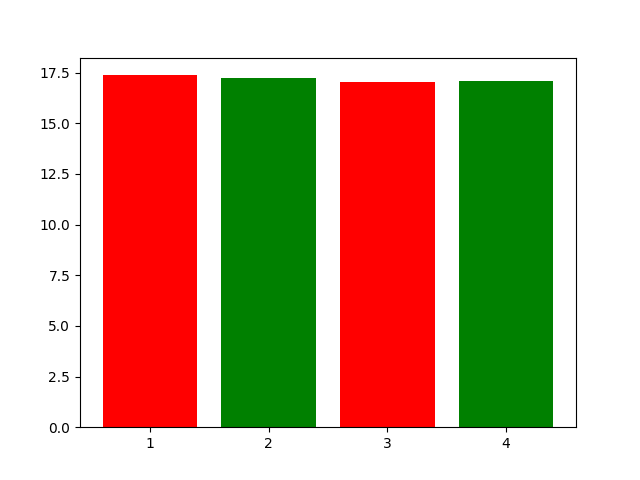
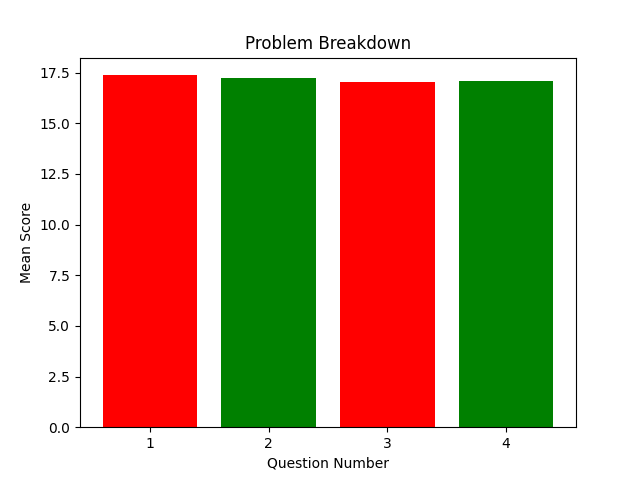
Add graph titles

Changed region(s): [[0.375, 0.0625, 0.6562, 0.125], [0.4062, 0.9375, 0.5938, 1.0], [0.0312, 0.4062, 0.0625, 0.5938]]

diff --git a/frontend/src/components/ButtonGraph.js b/frontend/src/components/ButtonGraph.js
@@ -2,13 +2,13 @@ import React, { useState } from "react";
 
 const ButtonGraph = ({title, getGraph}) => {
     const [input, setInput] = useState("")
-    const [graphFigure, setGraphFigure] = useState()
+    const [graphFile, setGraphFile] = useState()
     const GraphInputChangeHandler = async (event) => {
         setInput(event.target.value);
     };
     const SubmitGraphHandler = async (event) => {
         event.preventDefault()
-        setGraphFigure(<figure><img src={getGraph(input)} alt="Graph" /></figure>)
+        setGraphFile(getGraph(input))
     }
 
     return (
@@ -24,7 +24,7 @@ const ButtonGraph = ({title, getGraph}) => {
                     <button type="submit">Submit</button>
                 </label>
             </form>
-            {graphFigure}
+            {graphFile && <figure><img src={graphFile} alt="Graph" /></figure>}
         </>
     )
 }

diff --git a/frontend/src/components/HWPage.js b/frontend/src/components/HWPage.js
@@ -58,8 +58,6 @@ const HWPage = () => {
     });
   }
 
-  // SaveHW_QuestionMeansPNG(0)
-
   const getHW_MeansGraph = (hw_id) => {
     SaveHW_QuestionMeansPNG(hw_id)
     const graphFile = `/images/hw_means_${hw_id}.png`

diff --git a/backend/api/bargraphs.py b/backend/api/bargraphs.py
@@ -16,9 +16,9 @@ result=[{'question_number': 1, 'AVG(question_score)': 17.374505928853754}, \
 def get_hw_means(hw_id):
     result = db.hw_question_means_list(hw_id)
     tick_label = [x['question_number'] for x in result]
-    print(tick_label)
     height = [x['AVG(question_score)'] for x in result]
-    print(height)
     output_file = f'../../frontend/public/images/hw_means_{hw_id}.png'
-    print(f'{output_file=}')
-    bargraphplotter.save_bar_graph_as_png(tick_label, height, output_file)
+    x_label = 'Question Number'
+    y_label = 'Mean Score'
+    title = 'Problem Breakdown'
+    bargraphplotter.save_bar_graph_as_png(tick_label, height, output_file, x_label=x_label, y_label=y_label, title=title)
